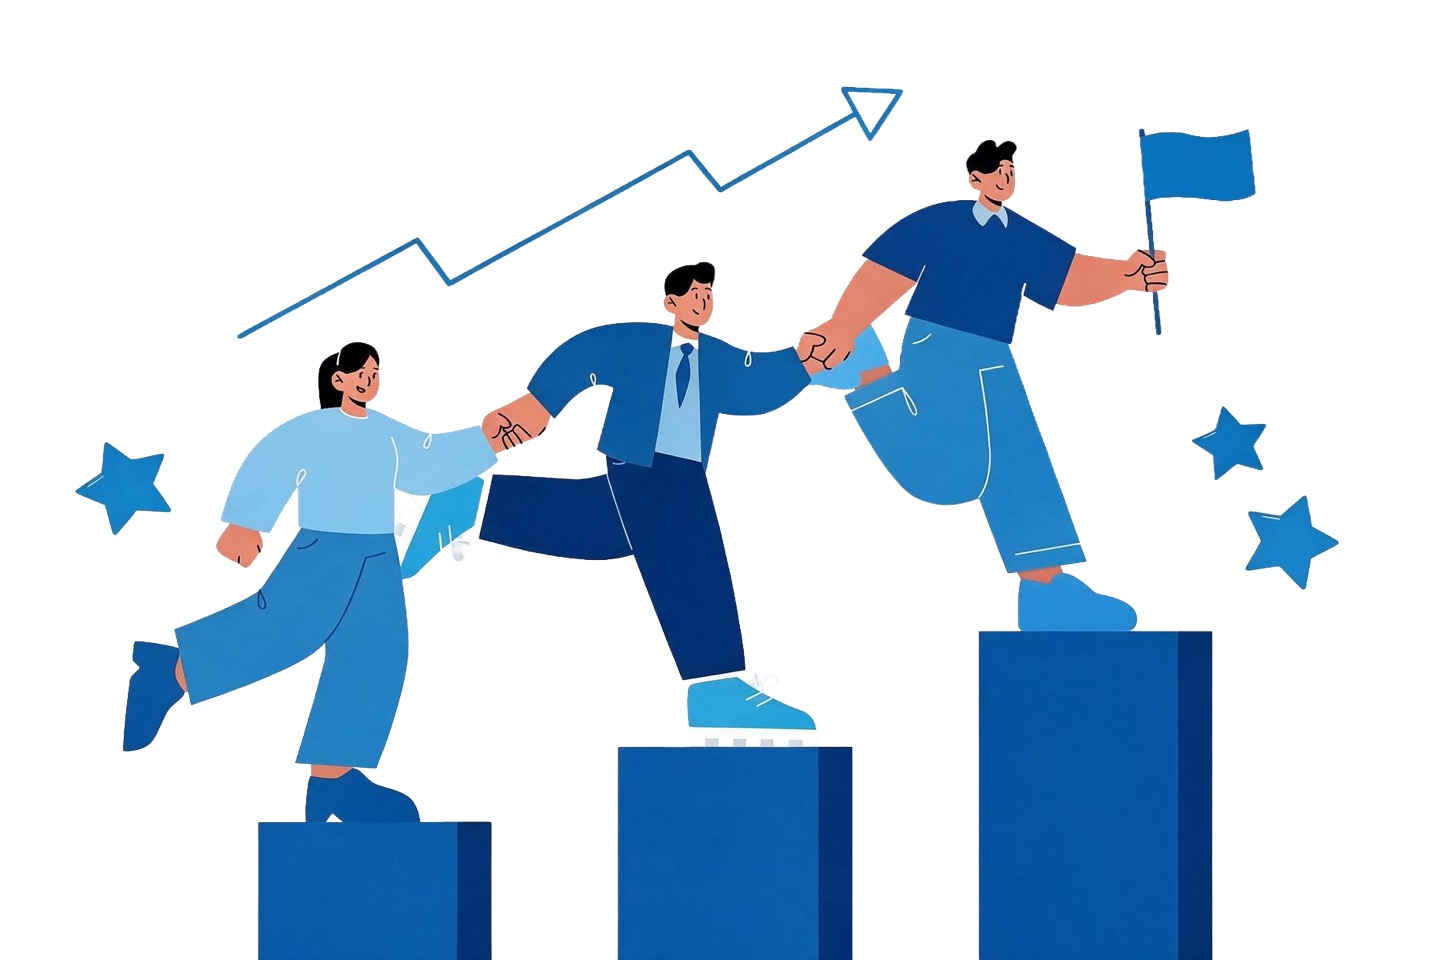
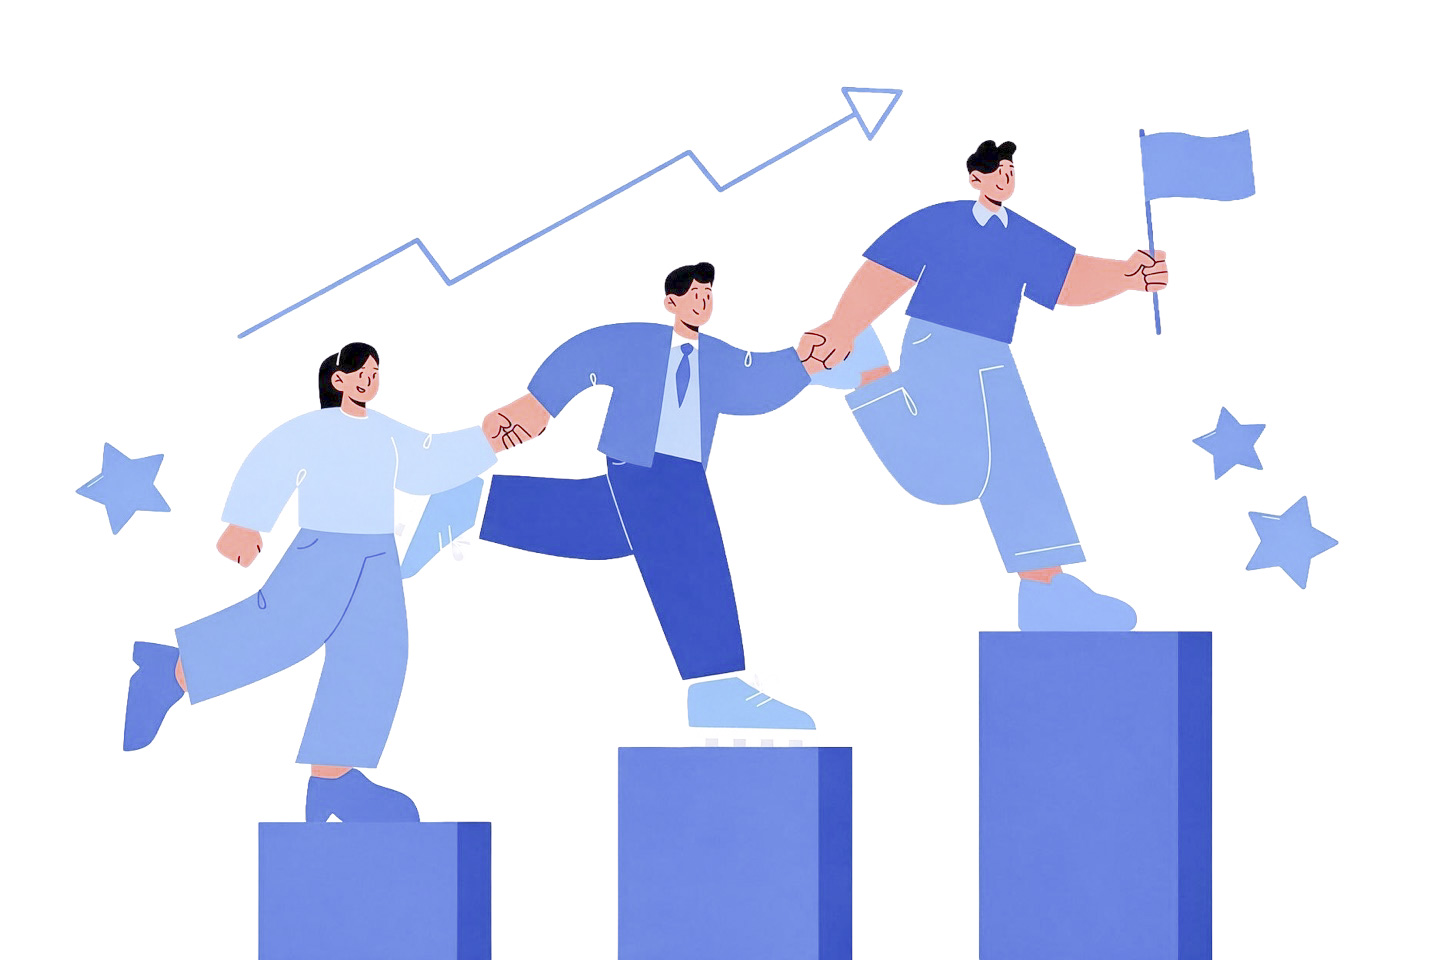
홈 히어로 이미지 확대, 서비스 카드 폭을 다른 섹션에 맞춤, GNB 마이페이지 강조
- 히어로 일러스트 max-w-lg -> max-w-2xl (512 -> 584px 렌더).
- 서비스 카드 줄만 max-w-5xl이라 위 히어로와 좌우 라인이 어긋나 있었다.
  홈의 다른 섹션 4개가 쓰는 max-w-7xl로 맞춘다. 제목과 첫 카드 왼쪽이
  둘 다 144px, 오른쪽 끝도 1360px로 일치한다.
- 로그인 상태 GNB에 채운 버튼이 하나도 없어 오른쪽에 기준점이 없었다.
  비로그인일 때 회원가입이 맡던 자리를 마이페이지가 잇는다.

diff --git a/src/features/home/hero-illustration.tsx b/src/features/home/hero-illustration.tsx
@@ -8,13 +8,13 @@ import { CheckCircle2, IdCard, KeyRound } from "lucide-react";
  */
 export function HeroIllustration() {
   return (
-    <div className="relative mx-auto aspect-[3/2] w-full max-w-lg select-none">
+    <div className="relative mx-auto aspect-[3/2] w-full max-w-2xl select-none">
       <Image
         src="/images/hero-illustration.jpg"
         alt="계단을 함께 오르며 취업에 성공하는 중장년 구직자들"
         fill
         priority
-        sizes="(min-width: 1024px) 32rem, 100vw"
+        sizes="(min-width: 1024px) 42rem, 100vw"
         // 흰 배경 JPG라 그대로 얹으면 컬러 그라데이션 위에 흰 사각형으로 보인다.
         // multiply로 흰색만 배경에 녹여 잘라낸 것처럼 만든다.
         className="object-contain mix-blend-multiply"

diff --git a/src/components/layout/site-header-client.tsx b/src/components/layout/site-header-client.tsx
@@ -97,7 +97,8 @@ export function SiteHeaderClient({ user }: { user: SiteHeaderUser | null }) {
                   <Link href="/admin">관리자</Link>
                 </Button>
               )}
-              <Button variant="ghost" className="hidden text-slate-700 sm:inline-flex" asChild>
+              {/* 로그인 상태의 주 동작. 비로그인일 때 회원가입이 맡던 자리를 그대로 잇는다. */}
+              <Button className="hidden bg-brand-blue-400 hover:bg-brand-blue-600 sm:inline-flex" asChild>
                 <Link href="/mypage">마이페이지</Link>
               </Button>
               <form action={signOutAction} className="hidden sm:inline-flex">

diff --git a/src/features/home/core-services-section.tsx b/src/features/home/core-services-section.tsx
@@ -6,7 +6,8 @@ import { cn } from "@/lib/utils";
 export function CoreServicesSection() {
   return (
     <section className="pt-14">
-      <div className="mx-auto grid max-w-5xl grid-cols-2 gap-4 px-4 sm:px-6 lg:grid-cols-4 lg:px-8">
+      {/* 홈의 다른 섹션과 같은 max-w-7xl. 이 섹션만 5xl이라 위 히어로와 좌우 라인이 어긋났다. */}
+      <div className="mx-auto grid max-w-7xl grid-cols-2 gap-4 px-4 sm:px-6 lg:grid-cols-4 lg:px-8">
         {coreServices.map((service) => {
           const Icon = service.icon;
           return (
